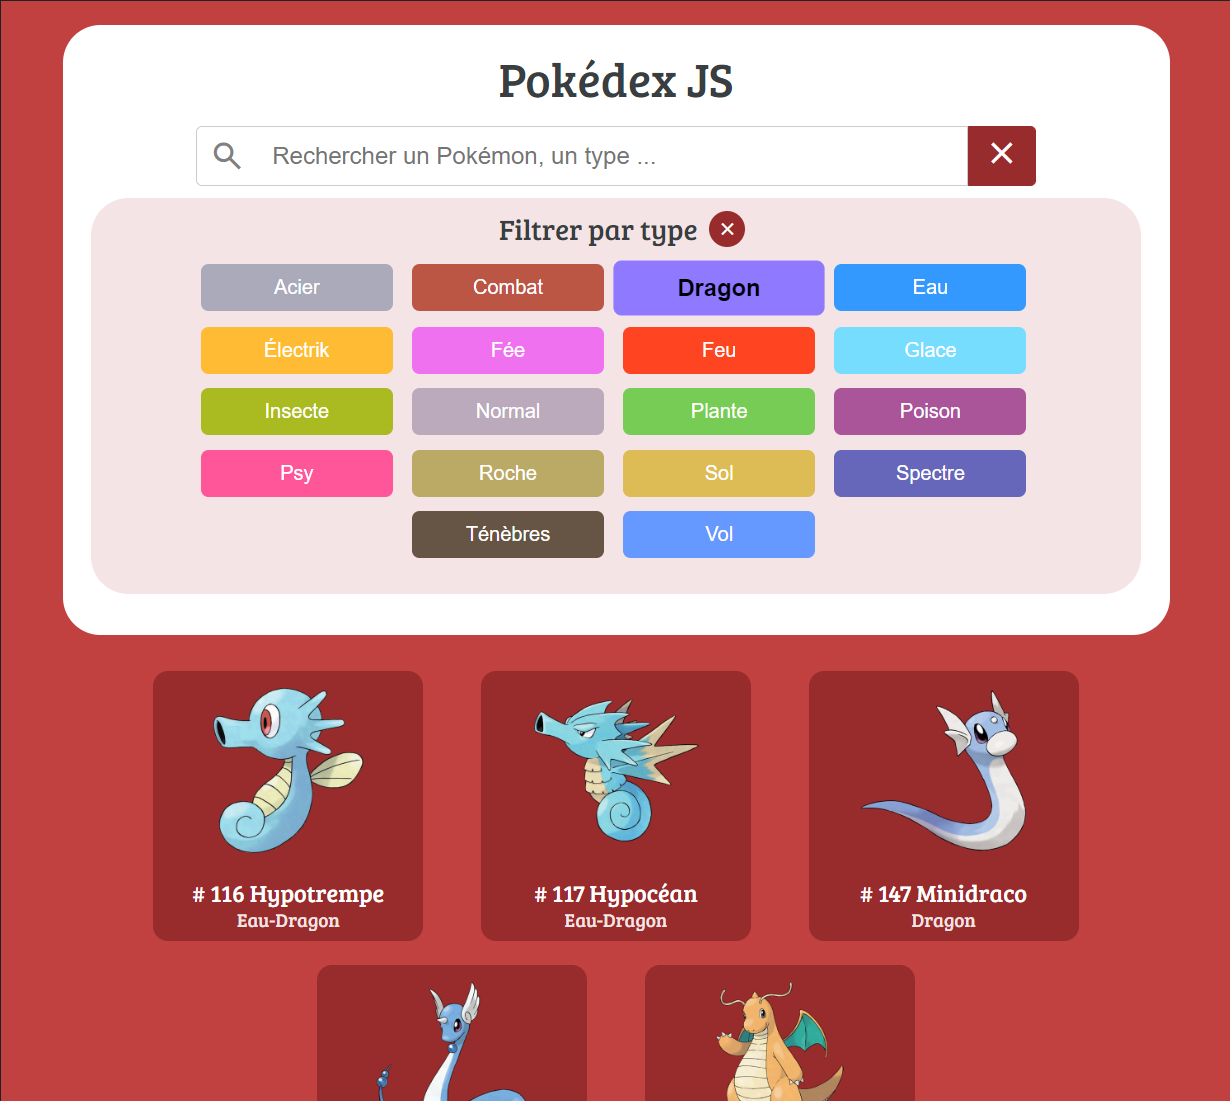
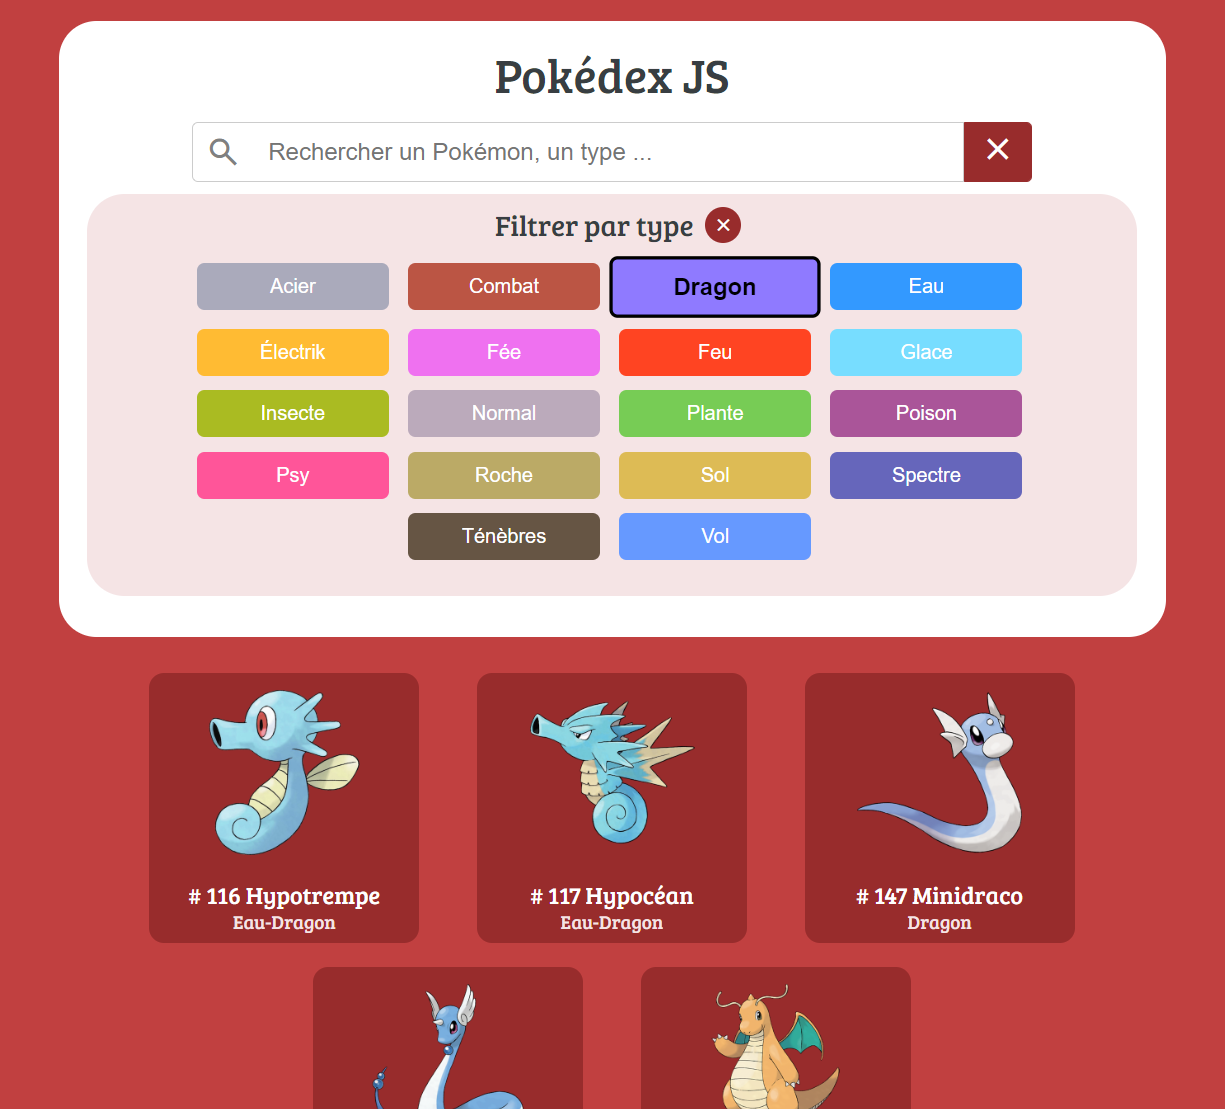
update reset functions + order + css active type + results img

diff --git a/assets/js/app.js b/assets/js/app.js
@@ -3,39 +3,34 @@ const app = {
 	pokemonsTypes: [],
 	pokedexEnd: 151,
 
-	init: function () {
-		// Chargement du pokedex sur la page d'accueil
-		app.loadPokedex();
-		// Initialisation des gestionnaires d'événements
-		app.initHandlers();
-
-	},
-
+	// FONCTIONS DE RECUPERATION DE DONNÉES
+	// Chargement du fichier JSON du pokedex
 	getPokedex: async function () {
-		// Chargement du fichier JSON du pokedex
 		try {
 			const response = await fetch('./data/pokedex.json');
 			const data = await response.json();
 			return data;
 		} catch (error) {
 			console.error('Erreur lors du chargement des données:', error);
+			return [];
 		}
 	},
 
+	// Chargement du fichier JSON du pokedex
 	getPokemonsTypes: async function () {
-		// Chargement du fichier JSON du pokedex
 		try {
 			const response = await fetch('./data/pokemonsTypes.json');
 			const data = await response.json();
 			return data;
 		} catch (error) {
 			console.error('Erreur lors du chargement des données:', error);
+			return [];
 		}
 	},
 
+	// FONCTIONS DE CREATION D'ELEMENTS DANS LE DOM
+		// Créer et affiche les cartes Pokémons dans le DOM
 	displayPokemon: function (pokemonList) {
-		// Affiche les Pokémons dans le DOM
-
 		// Récupère le conteneur où sont affichés les cartes Pokémon
 		const pokemonsList = document.getElementById('pokemons-list');
 
@@ -49,6 +44,7 @@ const app = {
 			// Créez une div pour les informations du Pokémon
 			const pokemonInfos = document.createElement('div');
 			pokemonInfos.classList.add('pokemon-infos');
+
 			// Créez un élément pour afficher l'identification du Pokémon
 			const pokemonIdentification = document.createElement('h2');
 			pokemonIdentification.textContent = `# ${pokemon.index} ${pokemon.name}`;
@@ -57,14 +53,15 @@ const app = {
 			const pokemonType = document.createElement('h3');
 			pokemonType.textContent = pokemon.type;
 			pokemonType.classList.add('pokemon-type');
-			// Ajoute le nom et le type du Pokémon à la carte Pokémon
-			pokemonInfos.appendChild(pokemonIdentification);
-			pokemonInfos.appendChild(pokemonType);
 			// Créez un élément image pour afficher l'image du Pokémon
 			const pokemonImage = document.createElement('img');
 			pokemonImage.src = pokemon.image;
 			pokemonImage.alt = pokemon.name;
 			pokemonImage.classList.add('pokemon-img');
+
+			// Ajoute le nom et le type du Pokémon à la carte Pokémon
+			pokemonInfos.appendChild(pokemonIdentification);
+			pokemonInfos.appendChild(pokemonType);
 			// Ajoute les informations à la carte Pokémon
 			pokemonCard.appendChild(pokemonImage);
 			pokemonCard.appendChild(pokemonInfos);
@@ -73,6 +70,35 @@ const app = {
 		}
 	},
 
+	// Créer les boutons de filtre de type de Pokémon
+	createTypeFilterButtons: function (types) {
+		const filtersContainer = document.querySelector('.types-list__filters-container');
+		// Crée un bouton pour chaque type de Pokémon
+		types.forEach(type => {
+			// Sélection et ajout d'une classe de style au bouton 
+			const button = document.createElement('button');
+			button.textContent = type.typeName;
+			button.classList.add('type-filter-button');
+			button.style.backgroundColor = type.typeColor;
+
+			// Ajoute un écouteur d'événement pour le clic sur le bouton
+			button.addEventListener('click', function () {
+				// Reset les filtres et la recherche
+				app.clearSearchBar();
+				app.clearActiveTypeFilter();
+				// Ajoute la classe active au bouton de filtre sélectionné
+				button.classList.add('active');
+				// Filtre les Pokémon en fonction du type sélectionné
+				app.filterPokemonByType(type.typeName);
+			});
+
+			// Ajoute le bouton au conteneur des boutons de filtre
+			filtersContainer.appendChild(button);
+		});
+	},
+
+	// FONCTIONS DE FILTRAGE DES DONNÉES
+	// Filtre les Pokémon en fonction du type sélectionné
 	filterPokemonByType: function (type) {
 		// Sélectionne tous les éléments Pokémon
 		const pokemonCards = document.querySelectorAll('.pokemon-card');
@@ -92,35 +118,8 @@ const app = {
 		});
 	},
 
-	createTypeFilterButtons: function (types) {
-		// Créer les boutons de filtre de type de Pokémon
-		const filtersContainer = document.querySelector('.types-list__filters-container');
-
-		// Crée un bouton pour chaque type de Pokémon
-		types.forEach(type => {
-			const button = document.createElement('button');
-			button.textContent = type.typeName;
-			// Ajoute une classe et un style au bouton 
-			button.classList.add('type-filter-button');
-			button.style.backgroundColor = type.typeColor;
-			// Ajoute un écouteur d'événement pour le clic sur le bouton
-			button.addEventListener('click', function () {
-				// Supprimez la classe active de tous les boutons
-				document.querySelectorAll('.type-filter-button').forEach(btn => {
-					btn.classList.remove('active');
-				});
-				// Ajoute la classe active au bouton actuellement sélectionné
-				button.classList.add('active');
-				app.filterPokemonByType(type.typeName);
-			});
-			// Ajoute le bouton au conteneur des boutons de filtre
-			filtersContainer.appendChild(button);
-		});
-	},
-
+	// Filtre les Pokemons selon du texte saisi dans la barre de recherche 
 	handleSearch: function () {
-		// Barre de recherche - effectue la recherche et affiche les cartes Pokémon correspondantes	
-		// Barre de recherche
 		const searchInput = document.getElementById('search-input');
 		// Texte recherché par l'utilisateur
 		const searchTerm = searchInput.value.toLowerCase();
@@ -136,36 +135,61 @@ const app = {
 				pokemonCard.style.display = 'none';
 			}
 		});
+		// Supprime la classe active de tous les boutons filtres de type
+		app.clearActiveTypeFilter();
 	},
 
+	// AUTRES FONCTIONS POUR LA RENITIALISATION DES DONNÉES
+	// Affiche tous les Pokémon
 	showAllPokemon: function () {
-		// Affiche tous les Pokémon
 		const pokemonCards = document.querySelectorAll('.pokemon-card');
 		pokemonCards.forEach(pokemonCard => {
 			pokemonCard.style.display = 'flex';
 		});
 	},
 
-	resetFilter: function () {
-		// Supprime la classe active de tous les boutons
+	// Vide la barre de recherche
+	clearSearchBar: function () {
+		const searchInput = document.getElementById('search-input');
+		searchInput.value = '';
+	},
+	// Supprime le filtre de type actif
+	clearActiveTypeFilter: function () {
+		// Supprime la classe active de tous les boutons filtres de type
 		document.querySelectorAll('.type-filter-button').forEach(btn => {
 			btn.classList.remove('active');
 		});
-		// Affiche tous les Pokémon
-		app.showAllPokemon();
 	},
 
-	resetSearchBar: function () {
-		// Barre de recherche
+	handleReset: function (buttonId) {
+		// Réinitialise des recherches par la barre de recherche et les filtres de type
+		const resetButton = document.getElementById(buttonId);
+		resetButton.addEventListener('click', function () {
+			// Reset les filtres et la recherche
+			app.clearSearchBar();
+			app.clearActiveTypeFilter();
+			// Affiche tous les Pokémon
+			app.showAllPokemon();
+		});
+	},
+
+	// ECOUTEURS D'EVENEMENTS POURR L'INITIALISATION DE L'APPLICATION
+	// Ecouteur d'événement sur la barre de recherche
+	handleTypeSearchBar: function () {
+		// Ajoute un écouteur d'évenement sur l'input pour faire la recherche
 		const searchInput = document.getElementById('search-input');
-		// Réinitialise la barre de recherche
-		searchInput.value = '';
-		// Affiche tous les Pokémon
-		app.showAllPokemon();
+		searchInput.addEventListener('input', app.handleSearch);
 	},
 
+	// Ecouteur d'événement sur les bouton de réinitialisation
+	handleClickResetBtn: function () {
+		app.handleReset('reset-filter-button');
+		app.handleReset('reset-search-button');
+	},
+
+	// INITIALISATION DE L'APPLICATION
+	// Récupération des données
 	loadPokedex: async function () {
-		// Récupération des données
 		app.pokedex = await app.getPokedex();
 		app.pokemonsTypes = await app.getPokemonsTypes();
 		// Affichage du pokedex avec les cartes des Pokemons
@@ -174,44 +198,21 @@ const app = {
 		app.createTypeFilterButtons(app.pokemonsTypes);
 	},
 
+	// Initialisation des gestionnaires d'événements
 	initHandlers: function () {
-		app.handleSearchBar();
-		app.handleClickResetFilterBtn();
-		app.handleClickResetSearchBtn();
+		app.handleTypeSearchBar();
+		app.handleClickResetBtn();
 	},
-
-	handleSearchBar: function () {
-		// Barre de recherche
-		const searchInput = document.getElementById('search-input');
-		// Ecouteur d'évenement sur l'input de la barre de recherche
-		searchInput.addEventListener('input', app.handleSearch);
+	// Initialisation de l'application
+	init: function () {
+		// Chargement du pokedex sur la page d'accueil
+		app.loadPokedex();
+		// Initialisation des gestionnaires d'événements
+		app.initHandlers();
 	},
-
-	handleClickResetFilterBtn: function () {
-		// Sélection du bouton de réinitialisation des filtres de type
-		const resetFilterButton = document.getElementById('reset-filter-button');
-
-		// Ajoutez un gestionnaire d'événement pour le clic sur le bouton de réinitialisation
-		resetFilterButton.addEventListener('click', function () {
-			// Appelez une fonction pour réinitialiser le filtre
-			app.resetFilter();
-		});
-	},
-
-	handleClickResetSearchBtn: function () {
-		// Sélection du bouton de réinitialisation des filtres de type
-		const resetSearchButton = document.getElementById('reset-search-button');
-
-		// Ajoutez un gestionnaire d'événement pour le clic sur le bouton de réinitialisation
-		resetSearchButton.addEventListener('click', function () {
-			// Appelez une fonction pour réinitialiser le filtre
-			app.resetSearchBar();
-		});
-	},
-
 };
 
-// Lancement de l'application
+// LANCEMENT DE L'APPLICATION
 app.init();
 
 

diff --git a/assets/css/style.css b/assets/css/style.css
@@ -150,6 +150,7 @@ h1 {
 
 /* Boutons de filtre actifs des types de Pokemons */
 .type-filter-button.active {
+  border: 2px solid black;
   font-weight: bold;
   font-size: 0.9rem;
   transform: scale(1.1);

diff --git a/README.md b/README.md
@@ -34,7 +34,6 @@ Il s'inspire d'un exercice bonus conçu par l'organisme de formation O'clock de 
 ## **Aperçu du Projet**
 ### Mobile
 <img src="./assets/img/results/Electrik-mobile.png" width="280" height="500">
-<img src="./assets/img/results/Glace-mobile.png" width="280" height="500">
 
 ### Tablette
 <img src="./assets/img/results/Dragon-tablet.png" width="400" height="400">
